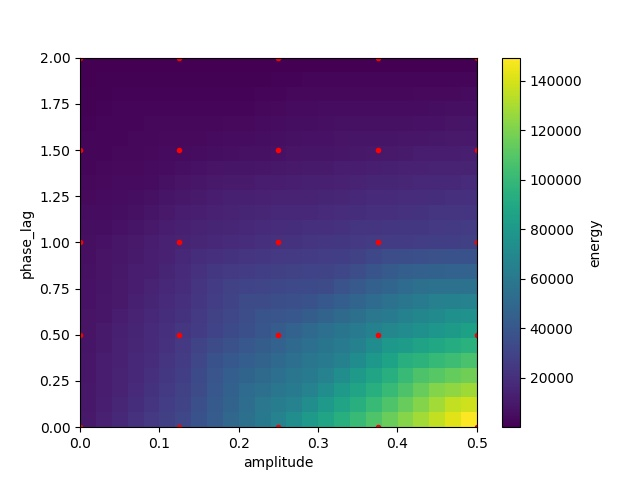
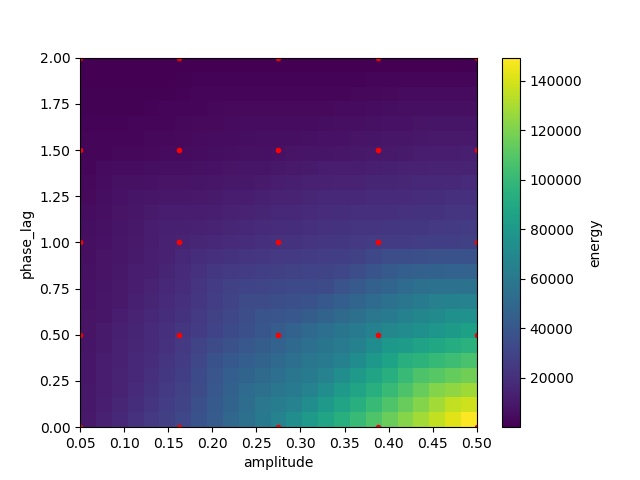
Corrected speed computation using norm on x and z

Changed region(s): [[0.3125, 0.9062, 0.7812, 0.9375], [0.0938, 0.9062, 0.2812, 0.9375]]

diff --git a/Lab9/Webots/controllers/pythonController/exercise_9b.py b/Lab9/Webots/controllers/pythonController/exercise_9b.py
@@ -97,8 +97,9 @@ def compute_energy_speed():
 
                 # Compute the speed
                 #speed = np.array([(link_data[i+1,:]-link_data[i,:])/timestep for i in range(link_data.shape[0]-1)]) 
-                speed = (link_data[-1,0] - link_data[0,0])/sim_time
-                max_speed.append([amplitude,phase_lag,speed]) # np.max(speed[:,0],axis=0)
+                speed_x = (link_data[-1,0] - link_data[0,0])/sim_time
+                speed_z = np.abs((link_data[-1,2] - link_data[0,2])/sim_time)
+                max_speed.append([amplitude,phase_lag,np.sqrt(speed_x**2+speed_z**2)]) # np.max(speed[:,0],axis=0)
 
     max_energy = np.array(max_energy)
     plt.figure()
